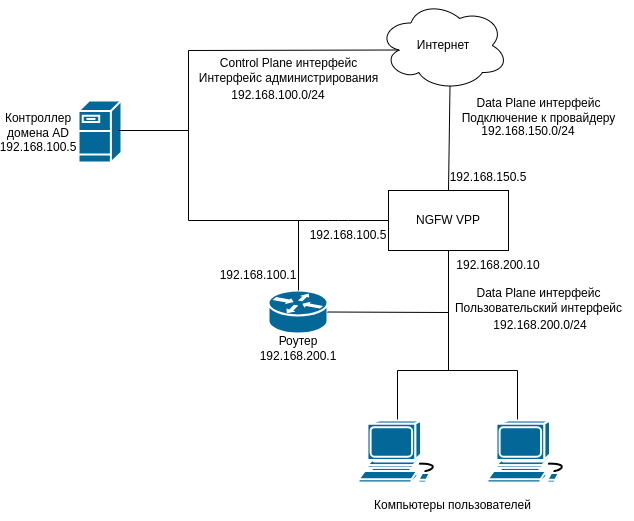
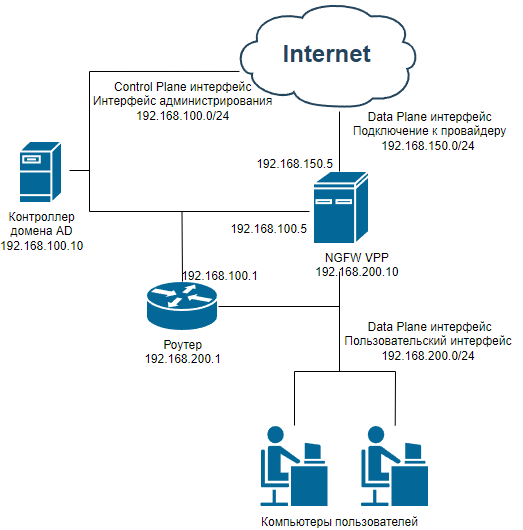
ICS-34363 VPP. Поправить статью Авторизация через журнал безопасности Active Directory

Changed region(s): [[0.0, 0.0, 0.979, 1.0], [0.4895, 0.0307, 0.5813, 0.0614]]

diff --git a/advanced-setting/users/authorization/ad-auth-logs.md b/advanced-setting/users/authorization/ad-auth-logs.md
@@ -17,25 +17,24 @@ description: Авторизация – необходимое условие д
 
 ![](../../../.gitbook/assets/ad-auth-logs6.png)
 
-
 ## Настройка клиентских машин
 
 Для авторизации через журнал безопасности AD выполните действия:
 
-1. Установите в качестве шлюза по умолчанию IP-адрес NGFW VPP на **пользовательском интерфейсе** (например `192.168.200.10`).
-2. Установите в качестве ДНС-сервера на клиентской машине ДНС сервер AD (например: `192.168.100.5`).
-3. Откройте командную строку и пропишите статический маршрут до **интерфейса администрирования** при помощи команды:
+1\. Установите в качестве шлюза по умолчанию IP-адрес NGFW VPP на **пользовательском интерфейсе** (например `192.168.200.10`).
+
+2\. Установите в качестве ДНС-сервера на клиентской машине ДНС сервер AD (например: `192.168.100.10`).
+
+3\. Откройте командную строку на машине с OC Windows и пропишите статический маршрут до **интерфейса администрирования** при помощи команды:
 ```
 route -p add 192.168.100.0 mask 255.255.255.0 192.168.200.1
 ```
 * 192.168.100.0 - сеть **интерфейса администрирования**.
 * 192.168.200.1 - маршрутизатор в сети **пользовательского интерфейса**.
 
-4. После указания маршрута должен появиться доступ до контроллера домена AD.
-
+4\. После указания маршрута должен появиться доступ до контроллера домена AD.
 
 ## Настройка Ideco NGFW VPP 
-
 
 Для включения **Авторизации через журнал безопасности Active Directory** перейдите на вкладку **Пользователи -> Авторизация -> Основное** и включите опцию **Авторизация через журнал безопасности Active Directory**. Нажмите кнопку **Сохранить**.
 
@@ -52,15 +51,15 @@ route -p add 192.168.100.0 mask 255.255.255.0 192.168.200.1
 
 Для работы авторизации через журнал безопасности выполните настройку на основном контроллере домена:
 
-1. В настройках брандмауэра Windows на всех контроллерах домена (или доменов) разрешите **удаленное управление журналом событий (Remote Event Log Management)**:
+1\. В настройках брандмауэра Windows на всех контроллерах домена (или доменов) разрешите **удаленное управление журналом событий (Remote Event Log Management)**:
 
 ![](../../../.gitbook/assets/ad-auth-logs2.png)
 
-2. Добавьте Ideco NGFW VPP в группу безопасности **Читатели журнала событий (Event Log Readers)**:
+2\. Добавьте Ideco NGFW VPP в группу безопасности **Читатели журнала событий (Event Log Readers)**:
 
 ![](../../../.gitbook/assets/ad-auth-logs3.png)
 
-3. Перезапустите службу **Авторизация через журнал безопасности Active Directory** на Ideco NGFW VPP. Отключите эту настройку и заново включите;
+3\. Перезапустите службу **Авторизация через журнал безопасности Active Directory** на Ideco NGFW VPP. Отключите эту настройку и заново включите;
 
 При изменении стандартной политики безопасности контроллеров домена выполните действия:
 
@@ -72,15 +71,14 @@ route -p add 192.168.100.0 mask 255.255.255.0 192.168.200.1
 
 ![](../../../.gitbook/assets/ad-auth-logs5.gif)
 
-4. Откройте командную строку и пропишите статический маршрут на контроллере домена AD до **пользовательского интерфейса**:
+4\. Откройте командную строку и пропишите статический маршрут на контроллере домена AD до **пользовательского интерфейса**:
 ```
 route -p add 192.168.200.0 mask 255.255.255.0 192.168.100.1
 ```
 * 192.168.200.0 - сеть **пользовательского интерфейса**.
 * 192.168.100.1 - маршрутизатор в сети **интерфейса администрирования**.
 
-5. Укажите в качестве DNS-сервера на контроллере домена AD loopback адрес (`127.0.0.1`).
-
+5\. Укажите в качестве DNS-сервера на контроллере домена AD loopback адрес (`127.0.0.1`).
 
 {% hint style="info" %}
 Для обновления политик контроллеров доменов выполните `gpupdate /force`;\
